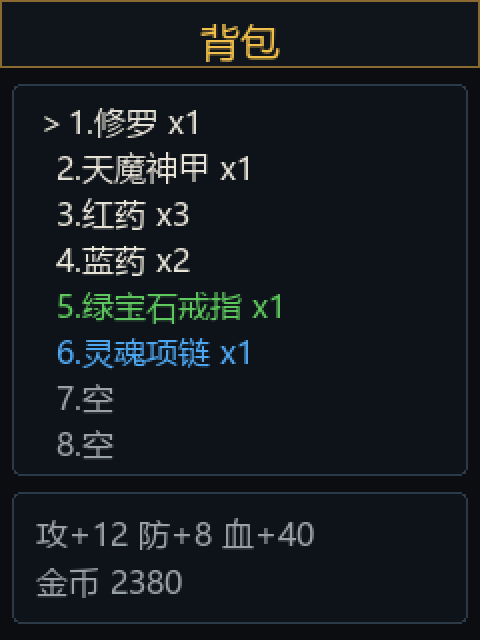
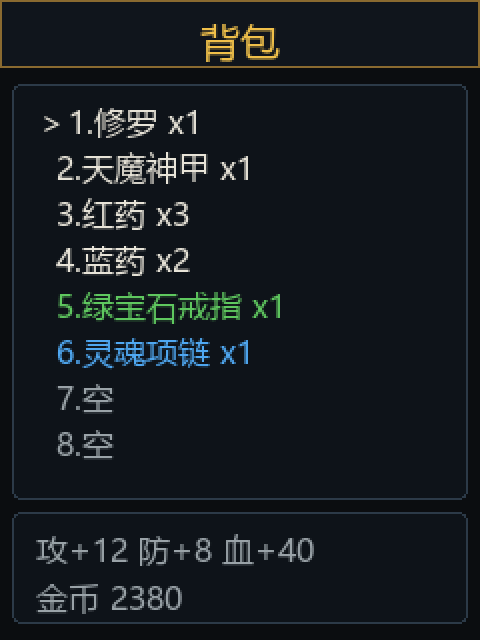
fix(mafa-chronicle): give the backpack rows room above the border
The device font's real line height is 20, not the 19 the mockups
approximate: 8 rows at pitch 24 reached y=240 inside a 196px panel
that ends at y=238, so row 8 rode the bottom border. The list panel
grows to 208 (symmetric 10px pads) and the detail box shrinks to 56
with its label moved to match; the backpack mockup re-renders to the
same geometry.

Changed region(s): [[0.0625, 0.8125, 0.4375, 0.9688], [0.0, 0.7188, 1.0, 0.9062]]

diff --git a/docs/design/mafa/render_design.py b/docs/design/mafa/render_design.py
@@ -222,9 +222,12 @@ for s, c in rows:
 save(img, "07-status")
 
 # ---- 8. backpack -----------------------------------------------------------
+# The device font's real line height is 20 (LH16 here approximates 19), so
+# the list panel mirrors the code's 208px: 8 rows at pitch 24 fit with a
+# symmetric 10px pad instead of riding the bottom border.
 img, d = new_page()
 title_band(d, "背包")
-panel(d, 6, 42, 228, 196, PANEL_BG, PANEL_EDGE)
+panel(d, 6, 42, 228, 208, PANEL_BG, PANEL_EDGE)
 items = [("＞1.修罗 x1", None), ("  2.天魔神甲 x1", None), ("  3.红药 x3", None),
          ("  4.蓝药 x2", None), ("  5.绿宝石戒指 x1", "green"), ("  6.灵魂项链 x1", "blue"),
          ("  7.空", DIM), ("  8.空", DIM)]
@@ -233,9 +236,9 @@ for s, q in items:
     color = q if isinstance(q, tuple) else QUAL.get(q, MAIN)
     text(d, (18, y), s, F16, color)
     y += LH16 + 4
-panel(d, 6, 246, 228, 66, PANEL_BG, PANEL_EDGE)
-text(d, (18, 256), "攻+12 防+8 血+40", F16, DIM)
-text(d, (18, 280), "金币 2380", F16, DIM)
+panel(d, 6, 256, 228, 56, PANEL_BG, PANEL_EDGE)
+text(d, (18, 264), "攻+12 防+8 血+40", F16, DIM)
+text(d, (18, 288), "金币 2380", F16, DIM)
 save(img, "08-backpack")
 
 # ---- 9. store: potions + the two class books --------------------------------

diff --git a/main/mafa_view.c b/main/mafa_view.c
@@ -220,15 +220,18 @@ lv_obj_t *mafa_view_page_backpack(mafa_view_t *v) {
     memset(v, 0, sizeof *v);
     v->screen = base_screen();
     title_band(v->screen, "背包");
-    lv_obj_t *list = panel(v->screen, 6, 42, 228, 196, MAFA_PANEL_BG,
+    /* The device font's real line height is 20 (the mockups approximate it
+     * at 19): 8 rows at pitch 20+4 need 188px, so the list grows to 208 for
+     * a symmetric 10px pad — the old 196 left row 8 on the bottom border. */
+    lv_obj_t *list = panel(v->screen, 6, 42, 228, 208, MAFA_PANEL_BG,
                            MAFA_PANEL_EDGE);
     v->items_label = new_label(list, 12, 10, false);
     list_style(v->items_label);
     /* 8 rows need a tighter lead than the shared 6. */
     lv_obj_set_style_text_line_space(v->items_label, 4, 0);
-    lv_obj_t *detail = panel(v->screen, 6, 246, 228, 66, MAFA_PANEL_BG,
+    lv_obj_t *detail = panel(v->screen, 6, 256, 228, 56, MAFA_PANEL_BG,
                              MAFA_PANEL_EDGE);
-    v->detail_label = new_label(detail, 12, 10, false);
+    v->detail_label = new_label(detail, 8, 8, false);
     lv_obj_set_style_text_color(v->detail_label, MAFA_TEXT_DIM, 0);
     return v->screen;
 }
